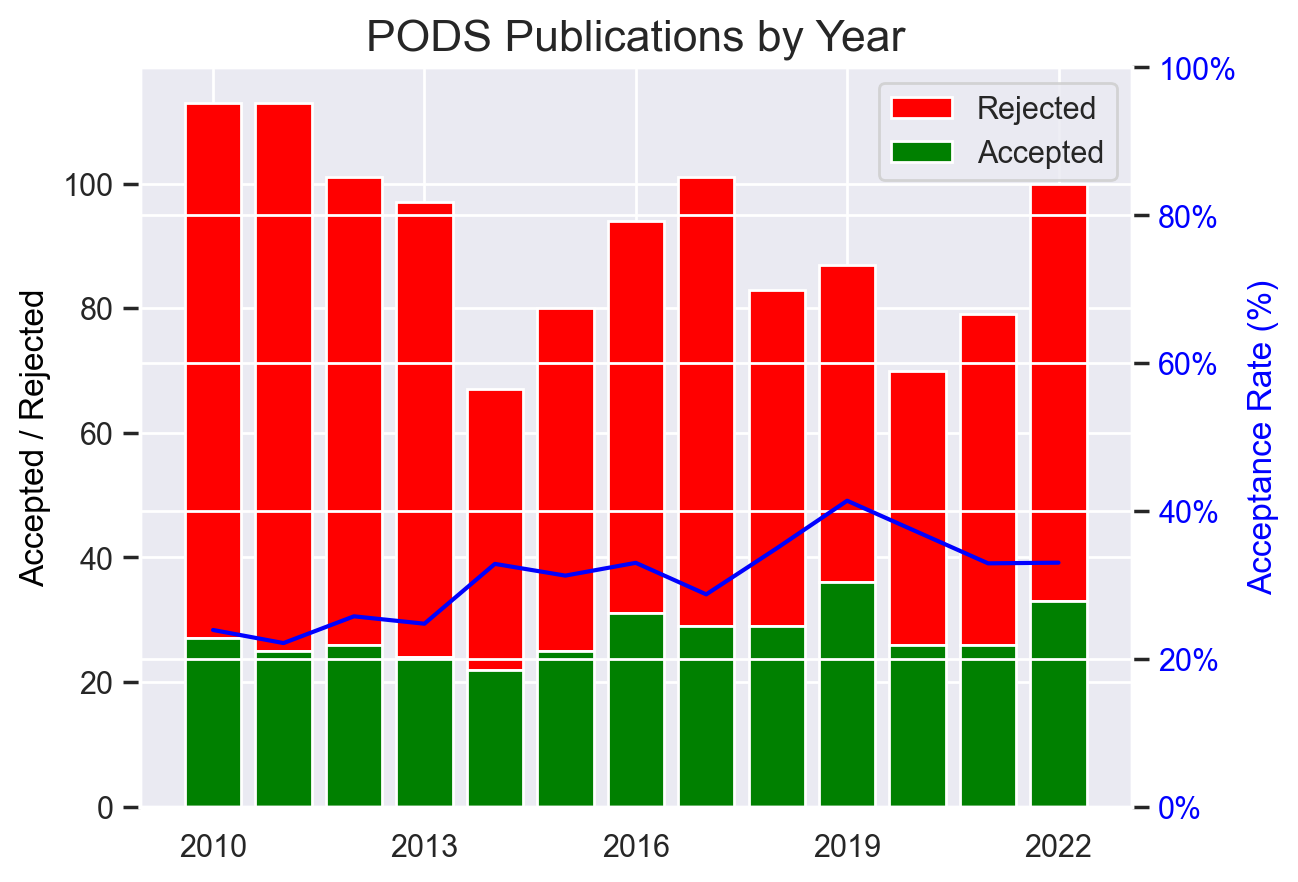
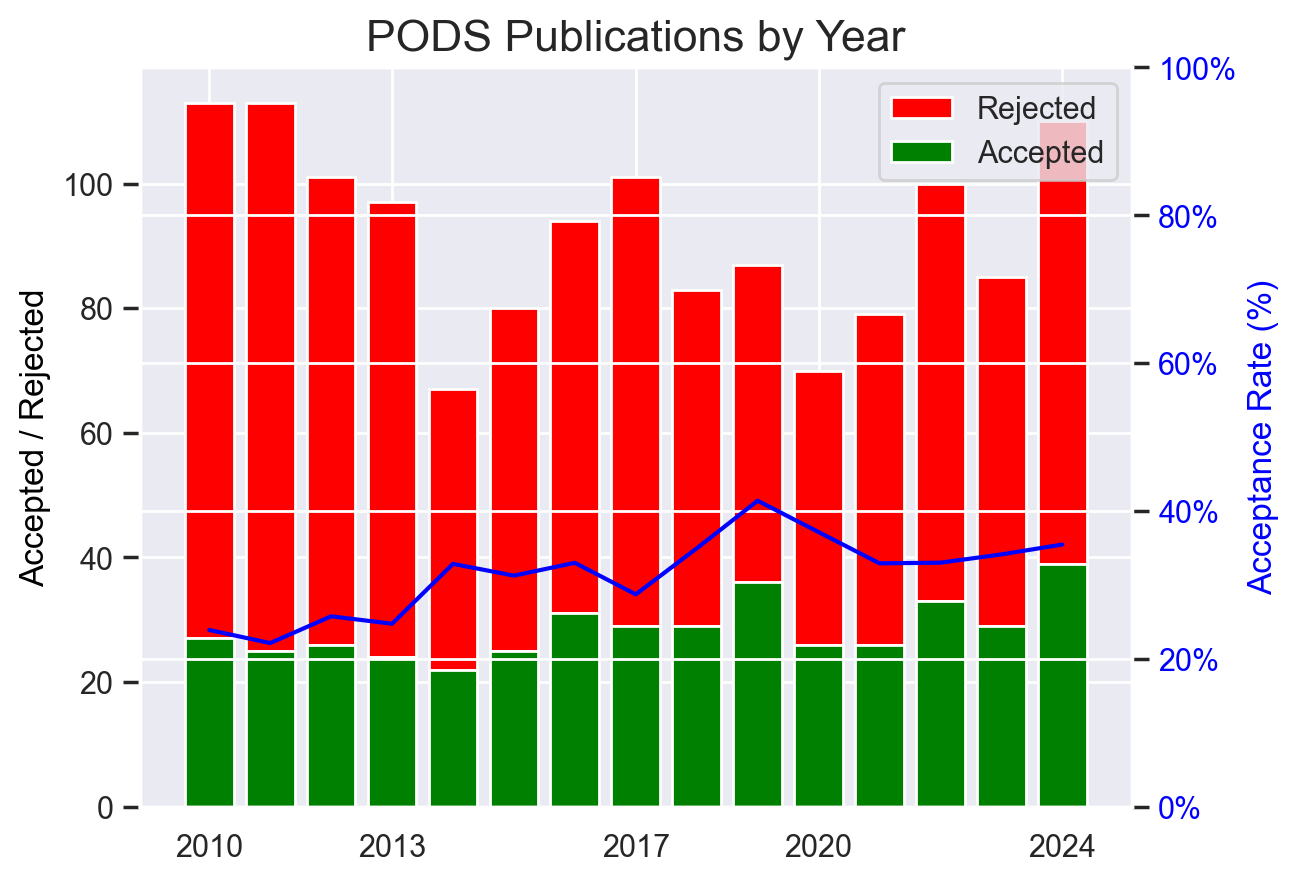
PODS

diff --git a/README.md b/README.md
@@ -73,7 +73,7 @@
 <IMG SRC="https://github.com/emeryberger/csconferences/blob/main/graphs/ICDE.png?raw=true" WIDTH="500">
 <A NAME="PODS"></A>
 <P><B><A HREF="https://dblp.org/db/conf/pods/index.html">PODS</A></B>
- <em>mean acceptance rate, last 5 years: 36%</em></P>
+ <em>mean acceptance rate, last 5 years: 35%</em></P>
 <IMG SRC="https://github.com/emeryberger/csconferences/blob/main/graphs/PODS.png?raw=true" WIDTH="500">
 <A NAME="SIGMOD"></A>
 <P><B><A HREF="https://dblp.org/db/conf/sigmod/index.html">SIGMOD</A></B>
